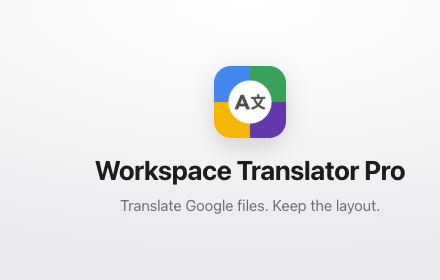
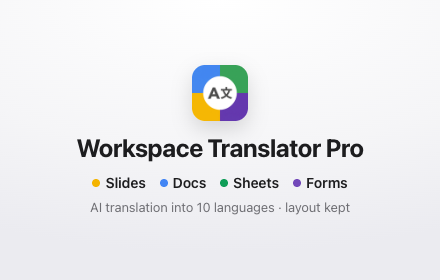
store: centre the small tile and show file types + languages
Headless Chrome's minimum window is wider than 440px, which pushed the tile
off-centre; the tile is now a fixed 440x280 box. Adds Slides/Docs/Sheets/Forms
with their colour dots and 'AI translation into 10 languages · layout kept'.

Changed region(s): [[0.1773, 0.2286, 0.9455, 0.6857], [0.2068, 0.7143, 0.8568, 0.7714]]

diff --git a/store-assets/compose.html b/store-assets/compose.html
@@ -67,11 +67,20 @@
 
   .sub, .points span { text-wrap: balance; }
 
-  /* ── Tile 440×280 ─────────────────────────────────────────────────── */
-  .tile { width: 100%; height: 100%; display: flex; flex-direction: column; align-items: center; justify-content: center; gap: 10px; text-align: center; }
-  .tile img { width: 72px; height: 72px; border-radius: 17px; box-shadow: 0 8px 22px rgba(0, 0, 0, 0.15); }
-  .tile h1 { font-size: 27px; font-weight: 700; letter-spacing: -0.02em; margin-top: 6px; }
-  .tile p { font-size: 15px; color: #6e6e73; }
+  /* ── Tile 440×280 ──────────────────────────────────────────────────
+     Fixed 440×280 box: headless Chrome's window is wider than 440px, so the
+     tile must not depend on the window width to stay centred. */
+  .tile {
+    position: absolute; left: 0; top: 0; width: 440px; height: 280px;
+    display: flex; flex-direction: column; align-items: center; justify-content: center; text-align: center;
+    background: radial-gradient(120% 90% at 50% 0%, #ffffff 0%, #f5f5f7 60%, #ebebf0 100%);
+  }
+  .tile img { width: 56px; height: 56px; border-radius: 13px; box-shadow: 0 8px 20px rgba(0, 0, 0, 0.14); }
+  .tile h1 { font-size: 25px; font-weight: 700; letter-spacing: -0.02em; margin-top: 12px; }
+  .tile .types { display: flex; gap: 14px; margin-top: 12px; font-size: 14px; font-weight: 600; color: #1d1d1f; }
+  .tile .types span { display: inline-flex; align-items: center; gap: 5px; }
+  .tile .types i { width: 8px; height: 8px; border-radius: 50%; display: inline-block; }
+  .tile p { margin-top: 8px; font-size: 13px; color: #6e6e73; }
 </style>
 </head>
 <body>
@@ -117,7 +126,8 @@ const shots = {
         <p class="sub">Slides, Docs, Sheets and Forms in 10 languages — your original untouched.</p></div>
       ${device('done')}</div>`,
   tile: `<div class="tile"><img src="../icons/icon128.png" alt=""><h1>Workspace Translator Pro</h1>
-        <p>Translate Google files. Keep the layout.</p></div>`,
+        <div class="types"><span><i style="background:#f4b400"></i>Slides</span><span><i style="background:#4285f4"></i>Docs</span><span><i style="background:#0f9d58"></i>Sheets</span><span><i style="background:#7248b9"></i>Forms</span></div>
+        <p>AI translation into 10 languages · layout kept</p></div>`,
 };
 document.getElementById('root').outerHTML = shots[shot];
 </script>
